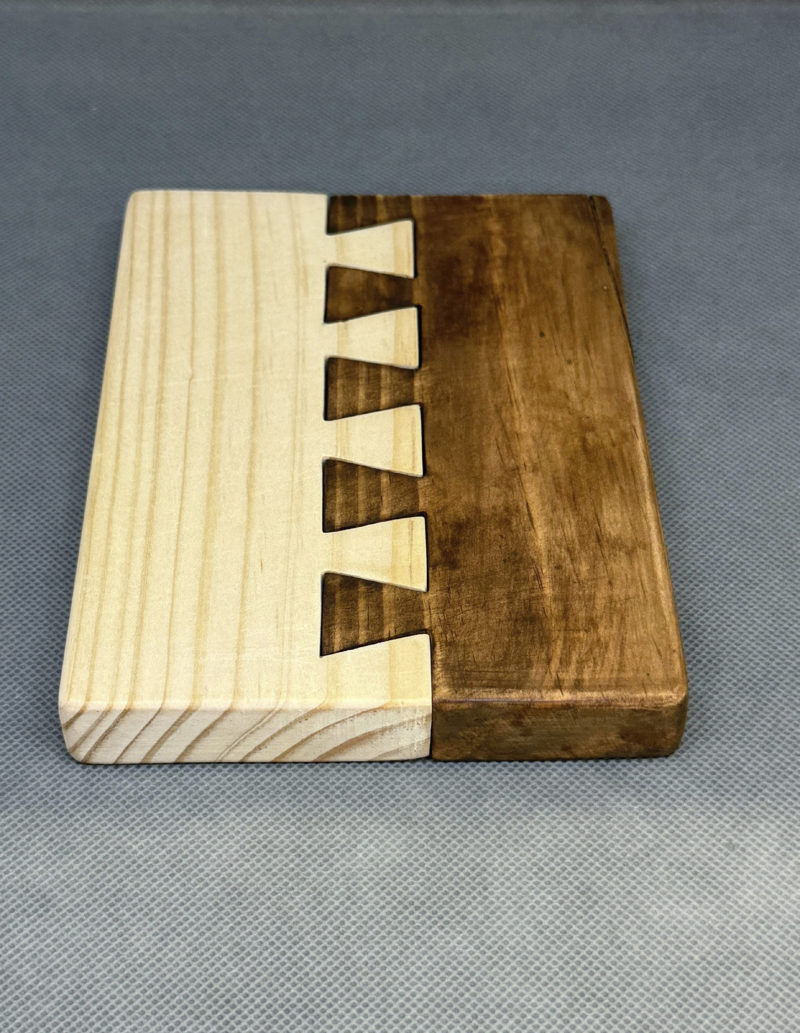
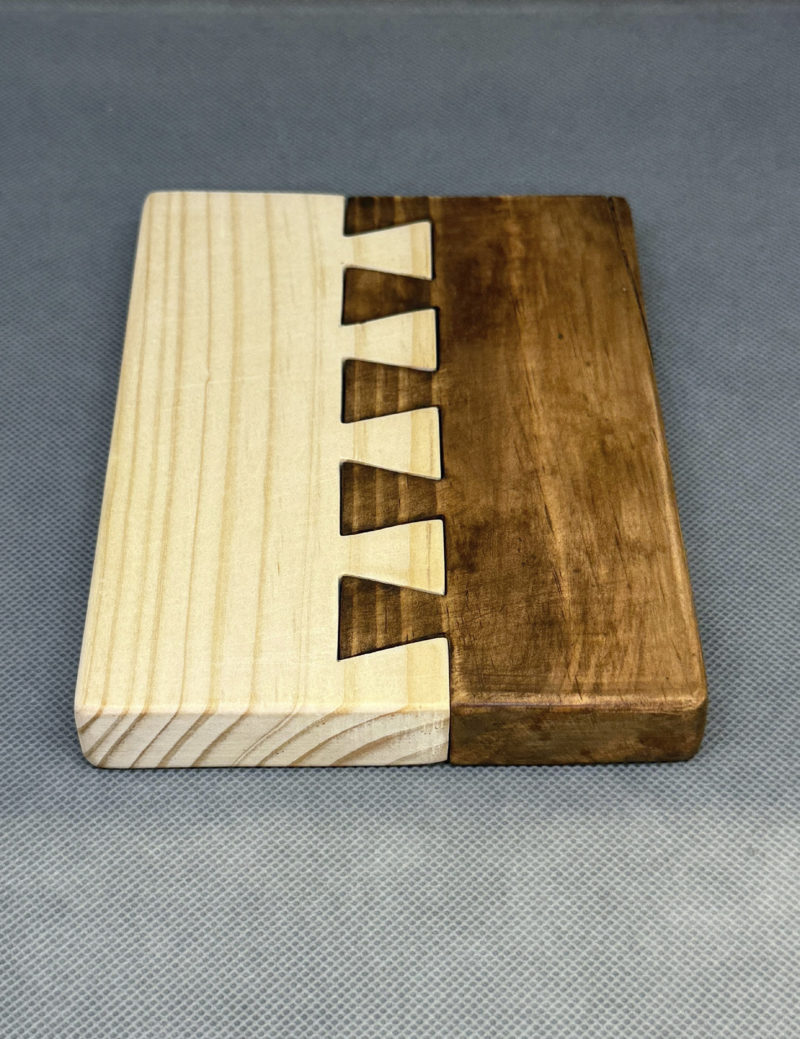
v3.3: ajustes de Página_Portafolio3 (10-11-2026)
Títulos de áreas a 30 px, foto nueva de Oficio, bordes de Otros más
finos, contacto y redes más grandes y reacomodados, pie más abajo.

diff --git a/portafolio-2.html b/portafolio-2.html
@@ -11,7 +11,7 @@
 <style>
   /* =========================================================
      COLORES Y MEDIDAS — cambia aquí y se actualiza todo el sitio
-     (sacados del template de InDesign Página_Portafolio3: 1440 px de ancho)
+     (sacados del template de InDesign Página_Portafolio3, versión del 10-11-2026: 1440 px de ancho)
      ========================================================= */
   :root{
     --fondo:#292929;        /* fondo de la página */
@@ -46,33 +46,33 @@
   .areas{display:grid;grid-template-columns:repeat(4,1fr);gap:10px;padding:0 10px;margin-top:118px}
   .area{position:relative;aspect-ratio:347/451;overflow:hidden;background:var(--casilla);display:block;width:100%}
   .area img{width:100%;height:100%;object-fit:cover;filter:brightness(.7);transition:filter .3s,transform .6s ease}
-  .area span{position:absolute;inset:0;display:grid;place-items:center;padding:0 12px;font-family:var(--sans);font-size:40px;letter-spacing:.16em;text-transform:uppercase;text-align:center;text-shadow:0 1px 12px rgba(0,0,0,.5)}
+  .area span{position:absolute;inset:0;display:grid;place-items:center;padding:0 12px;font-family:var(--sans);font-size:30px;letter-spacing:.16em;text-transform:uppercase;text-align:center;text-shadow:0 1px 12px rgba(0,0,0,.5)}
   .area:not(:disabled):hover img{filter:brightness(.85);transform:scale(1.03)}
   .area:disabled{cursor:default}
 
-  .bajada{max-width:912px;margin:116px auto 0;text-align:center;text-transform:uppercase;color:var(--texto-suave);padding:0 16px}
+  .bajada{max-width:912px;margin:104px auto 0;text-align:center;text-transform:uppercase;color:var(--texto-suave);padding:0 16px}
 
   /* ---------- Otros: filas desplegables ---------- */
-  .otros{padding:120px 30px 0}
+  .otros{padding:132px 30px 0}
   .otros h2{font:inherit;text-align:center;margin:0 0 20px}
-  .fila{border:1px solid var(--texto);margin-bottom:47px}
+  .fila{border:1px solid rgba(255,255,255,.45);margin-bottom:47px}
   .fila summary{list-style:none;display:flex;justify-content:space-between;align-items:center;min-height:53px;padding:0 33px 0 15px;text-transform:uppercase;cursor:pointer}
   .fila summary::-webkit-details-marker{display:none}
-  .fila summary::after{content:"";width:1px;height:29px;background:var(--texto);transition:transform .25s}
+  .fila summary::after{content:"";width:1px;height:29px;background:rgba(255,255,255,.8);transition:transform .25s}
   .fila[open] summary::after{transform:rotate(90deg)}
   .fila .contenido{padding:0 15px 20px;color:var(--texto-suave);font-weight:300}
   .fila .contenido p{margin:0}
 
   /* ---------- Contacto ---------- */
-  .contacto{padding:79px 16px 0;text-align:center}
+  .contacto{padding:55px 16px 0;text-align:center}
   .contacto h2{font-size:15px;font-weight:300;color:var(--texto-suave);margin:0}
-  .correo{font-size:15px;margin-top:13px}
+  .correo{font-size:15px;margin-top:25px}
   .correo:hover{text-decoration:underline;text-underline-offset:6px}
-  .copiado{display:block;min-height:14px;font-size:12px;line-height:14px;color:var(--texto-suave)}
-  .redes{display:flex;justify-content:center;flex-wrap:wrap;gap:12px 110px;list-style:none;padding:0;margin:4px 0 0;font-size:10px}
+  .copiado{display:block;min-height:15px;font-size:12px;line-height:15px;color:var(--texto-suave)}
+  .redes{display:flex;justify-content:center;flex-wrap:wrap;gap:12px 75px;list-style:none;padding:0;margin:0;font-size:13px}
   .redes a{color:var(--texto-suave)}
   .redes a:hover{color:var(--texto)}
-  footer{padding:59px 16px 77px;text-align:center;font-size:10px}
+  footer{padding:100px 16px 47px;text-align:center;font-size:10px}
   footer .marca{font-family:var(--sans)}
 
   /* ---------- Ventana de trabajo ---------- */
@@ -91,12 +91,12 @@
 
   /* ---------- Pantallas medianas y celular ---------- */
   @media (max-width:1300px){
-    .area span{font-size:28px;letter-spacing:.12em}
+    .area span{font-size:24px;letter-spacing:.12em}
   }
   @media (max-width:900px){
     .barra{padding:32px 24px 0;font-size:17px}
     .areas{grid-template-columns:repeat(2,1fr)}
-    .area span{font-size:32px}
+    .area span{font-size:28px}
     .otros{padding:120px 16px 0}
     .redes{gap:12px 64px}
   }
